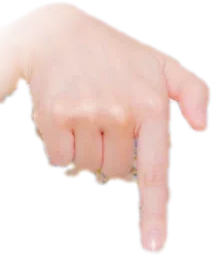
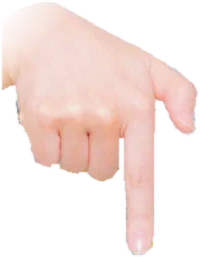
指の切り抜きをグリーンバックから作り直す
肌色での判定では花柄が混ざり縁も粗かったため、グリーンバックに置いた手から緑を抜いて作り直す。縁の緑のかぶりを消し、外周 1px を落としてなめらかにする。

Claude-Session: https://claude.ai/code/session_01Jrzq1FTocB1bW9vknhdfpF

diff --git a/public/about.css b/public/about.css
@@ -134,12 +134,12 @@ a:focus-visible, .btn:focus-visible { outline: 3px solid var(--accent); outline-
 }
 /* 写真の手（ぱくたそ）を切り抜いたもの。指は下向きで、左上から少し右下へ向けて伸ばす */
 .finger.left {
-  --tap: .7; --tx: 67px; --ty: 108.5px; width: 93px;
+  --tap: .7; --tx: 60.8px; --ty: 109px; width: 87px;
   transform: translate(calc(var(--away) * -.342), calc(var(--away) * -.94 + var(--press) * 2px)) rotate(-20deg);
 }
 /* 右上から少し左下へ向けて伸ばす */
 .finger.right {
-  --tap: .86; --tx: 26.8px; --ty: 108.5px; width: 106px;
+  --tap: .86; --tx: 26.4px; --ty: 109px; width: 87px;
   transform: translate(calc(var(--away) * .342), calc(var(--away) * -.94 + var(--press) * 2px)) rotate(20deg);
 }
 

diff --git a/public/about.html b/public/about.html
@@ -45,8 +45,8 @@
                 <li class="t50 lerp-in"><span class="box"></span><span>豆腐</span></li>
               </ul>
             </div>
-            <img class="finger left" data-target="tap-left" src="/about-img/finger-left.webp" width="93" height="112" alt="" />
-            <img class="finger right" data-target="tap-right" src="/about-img/finger-right.webp" width="106" height="112" alt="" />
+            <img class="finger left" data-target="tap-left" src="/about-img/finger-left.webp" width="87" height="112" alt="" />
+            <img class="finger right" data-target="tap-right" src="/about-img/finger-right.webp" width="87" height="112" alt="" />
           </div>
         </div>
       </section>
